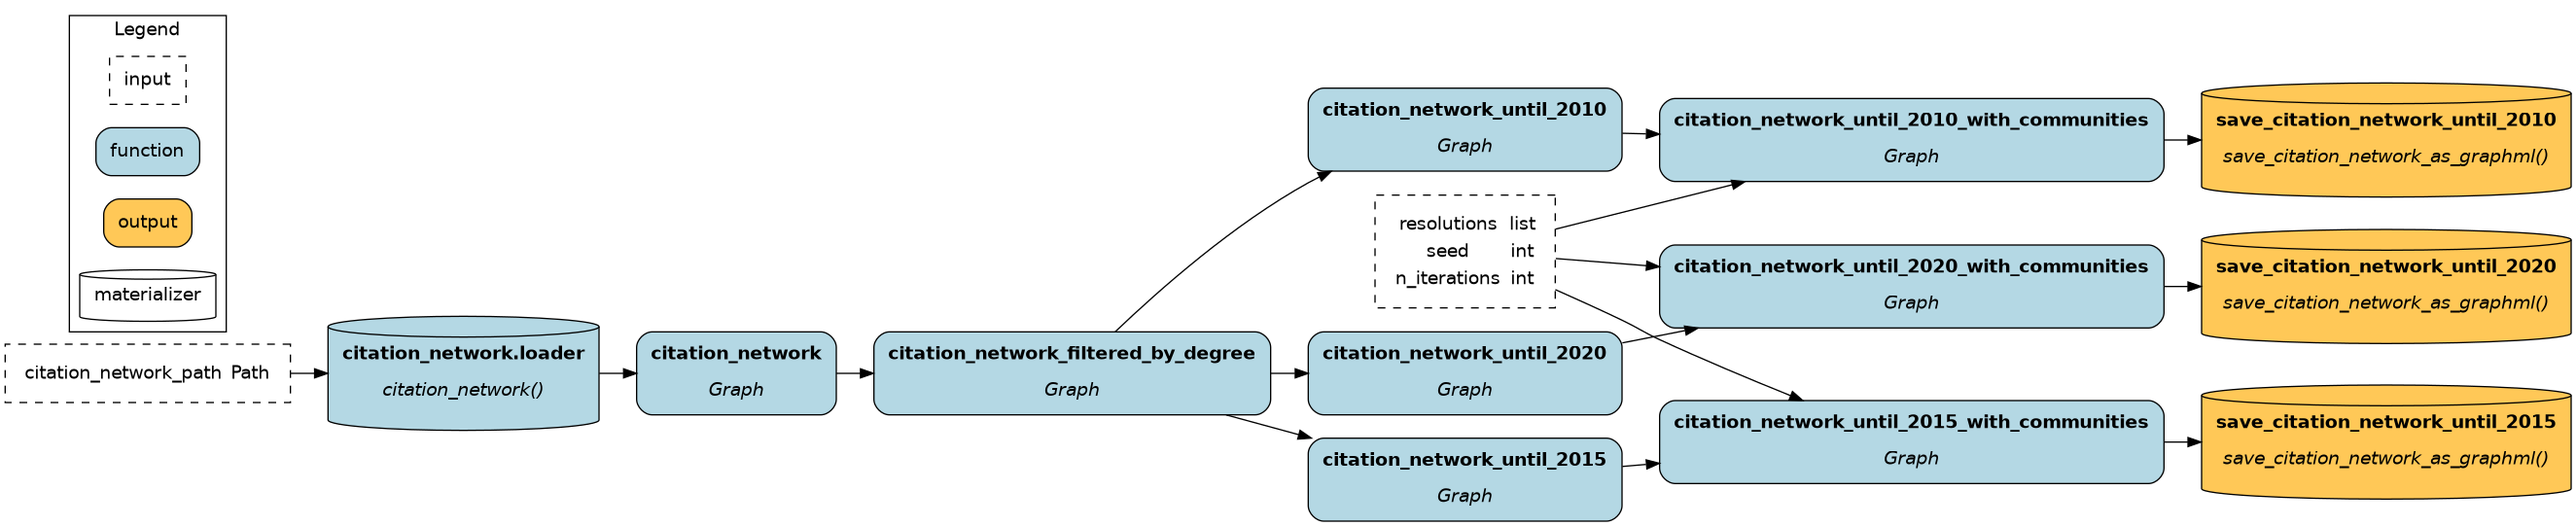
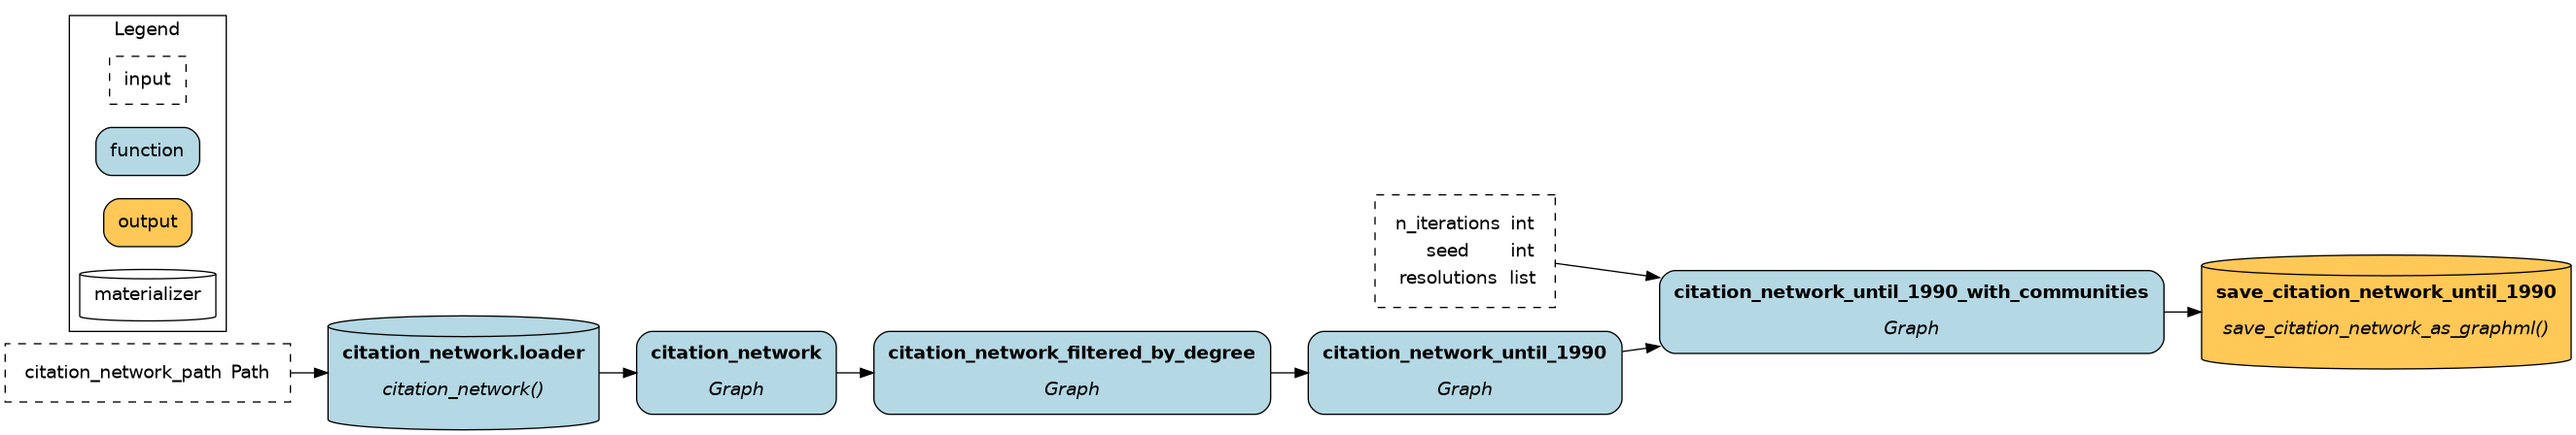
feat(pipelines): get keywords and communities until 2005

diff --git a/motor_learning_network/find_keywords_per_cluster.py b/motor_learning_network/find_keywords_per_cluster.py
@@ -49,10 +49,10 @@ if EXECUTE:
     logger.info("Executing the DAG!")
 
 # ── Resolution sweep ──────────────────────────────────────────────────────────
-YEAR = 2000
+YEAR = 2005
 TD_IDF_SAVING_PATH = KEYWORDS_LEVEL_DATA_PATH / f"until_{YEAR}"
 TD_IDF_SAVING_PATH.mkdir(parents=True,exist_ok=True)
-RESOLUTIONS: list[float] = [0.003, 0.014]
+RESOLUTIONS: list[float] = [0.003, 0.007]
 # RESOLUTIONS: list[float] = [round(0.001 + i * 0.001, 3) for i in range(1, 9)]
 # e.g. [0.002, 0.003, ..., 0.009]
 

diff --git a/motor_learning_network/process_network_by_time_periods.py b/motor_learning_network/process_network_by_time_periods.py
@@ -30,7 +30,8 @@ if EXECUTE:
     logger.info("Executing the DAG!")
 
 # year_ranges = (1960,1980,2000,2026)
-year_ranges = (2010,2015,2020)
+# year_ranges = (2010,2015,2020)
+year_ranges = (2005,)
 citation_networks_output_names = [f"citation_network_until_{year}" for year in year_ranges]
 resolutions = [round( i * 0.0001, 4) for i in range(1, 10)] #[0.001, ..., 0.040]
 resolutions.extend([round( i * 0.001, 3) for i in range(1, 40)]) #[0.001, ..., 0.040]

diff --git a/motor_learning_network/co,munities.md b/motor_learning_network/co,munities.md
@@ -1,0 +1,10 @@
+
+[INFO] 2026-04-02 19:33:29,891 __main__(109): Running Leiden with resolution=0.01 on directed graph (22982 vertices, 183926 edges).
+[INFO] 2026-04-02 19:34:04,299 __main__(137): Leiden detected 2555 communities.
+[INFO] 2026-04-02 19:34:04,457 __main__(109): Running Leiden with resolution=0.02 on directed graph (22982 vertices, 183926 edges).
+[INFO] 2026-04-02 19:34:38,608 __main__(137): Leiden detected 3302 communities.
+[INFO] 2026-04-02 19:34:38,739 __main__(109): Running Leiden with resolution=0.03 on directed graph (22982 vertices, 183926 edges).
+[INFO] 2026-04-02 19:35:14,065 __main__(137): Leiden detected 3820 communities.
+[INFO] 2026-04-02 19:35:20,688 hamilton_sdk.tracking.runs(118): Clocked end of run with status: Status.SUCCESS
+[WARNING] 2026-04-02 19:35:20,801 hamilton_sdk.adapters(376): 
+Captured execution run. Results can be found at http://localhost:8241/dashboard/project/1/runs/109
